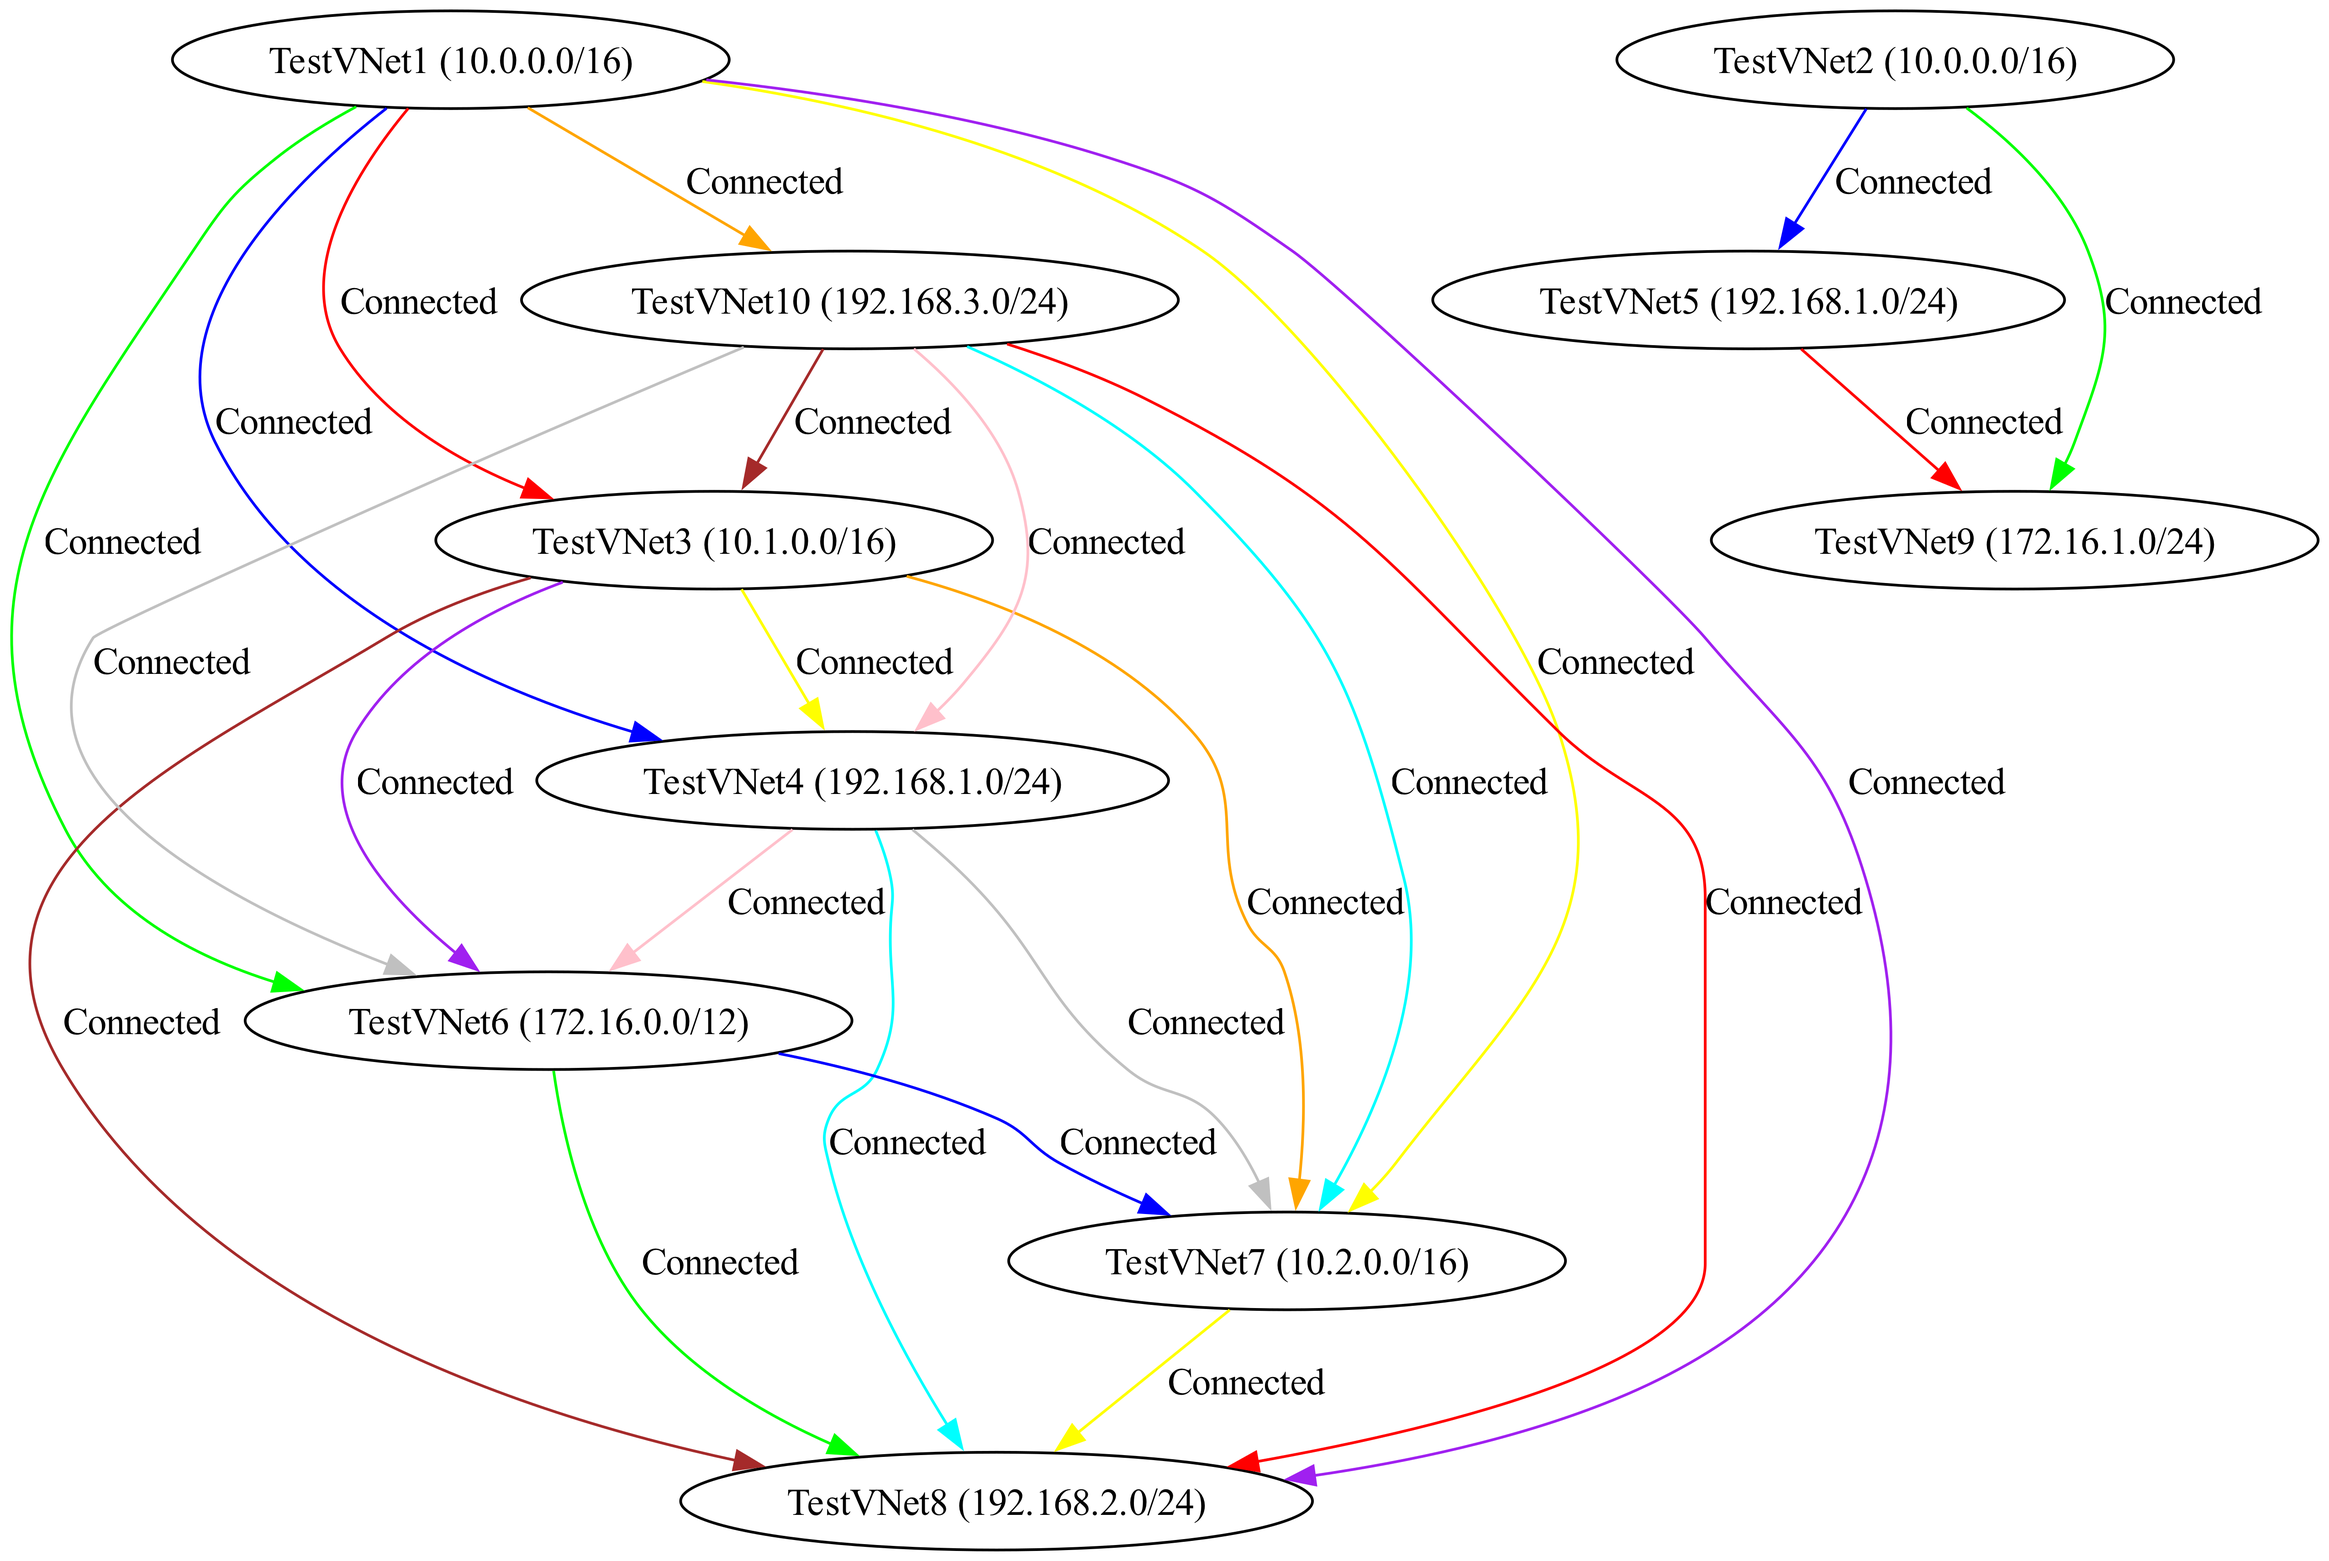
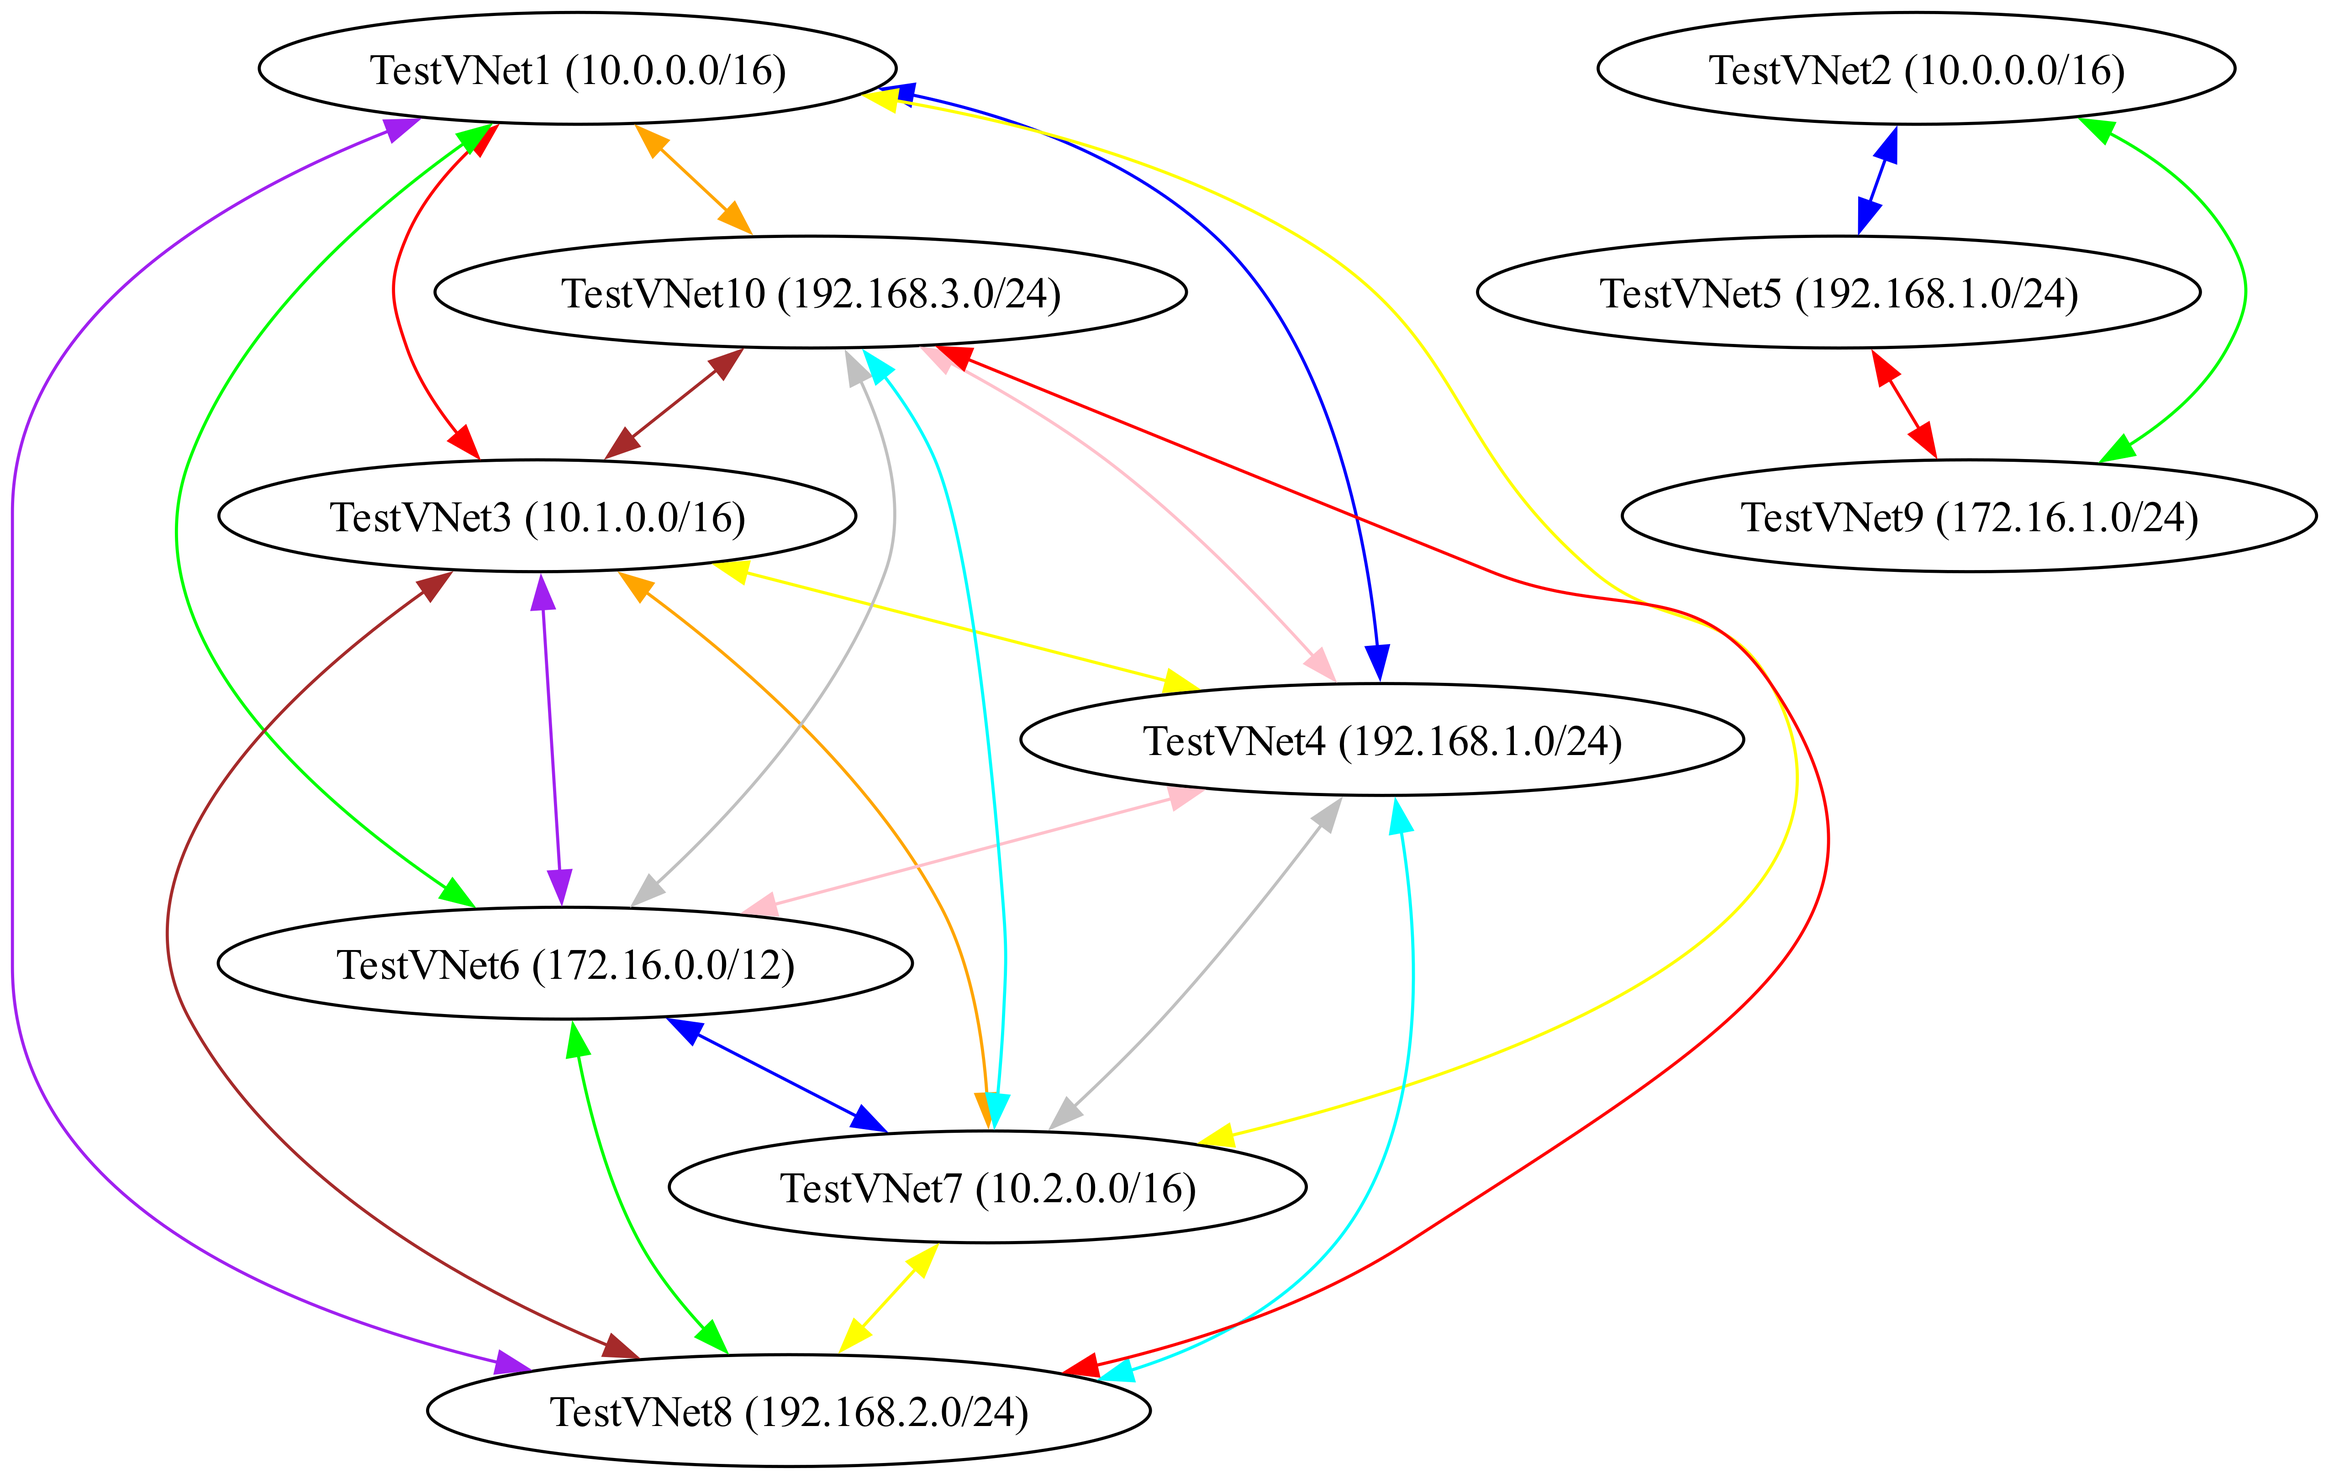
Update visualization to use bidirectional arrows for VNet peerings

diff --git a/draw_vnets.py b/draw_vnets.py
@@ -86,7 +86,7 @@ def visualize_peerings(peerings):
         connection = tuple(sorted([source, target]))
 
         if connection not in drawn_connections:
-            dot.edge(source, target, label=peering["PeeringState"], color=colors[color_index % len(colors)])
+            dot.edge(source, target, color=colors[color_index % len(colors)], dir='both')  # Bidirectional arrow
             drawn_connections.add(connection)
             color_index += 1
 
